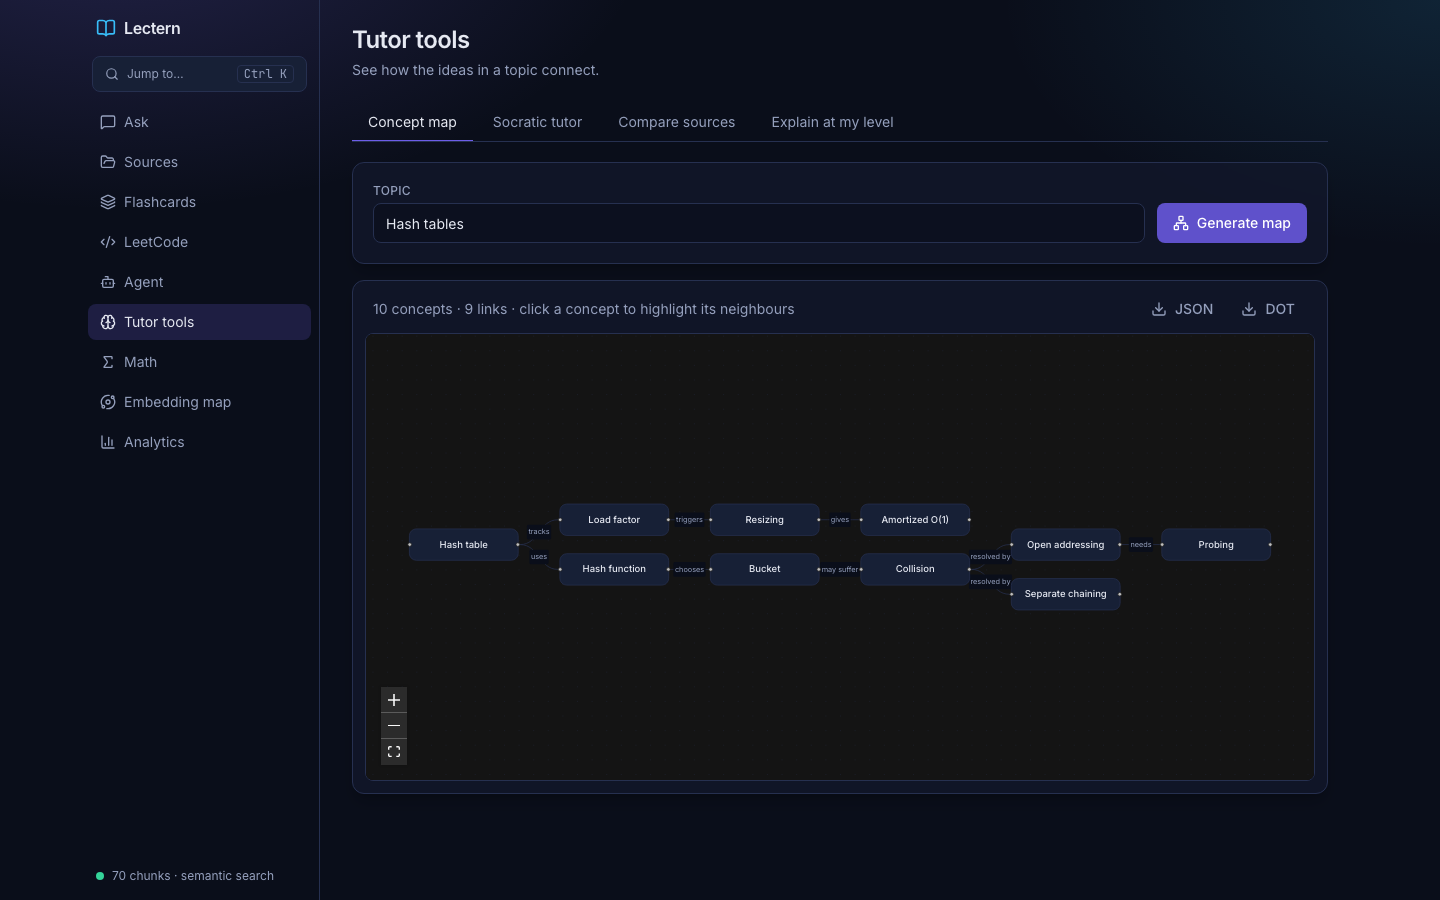
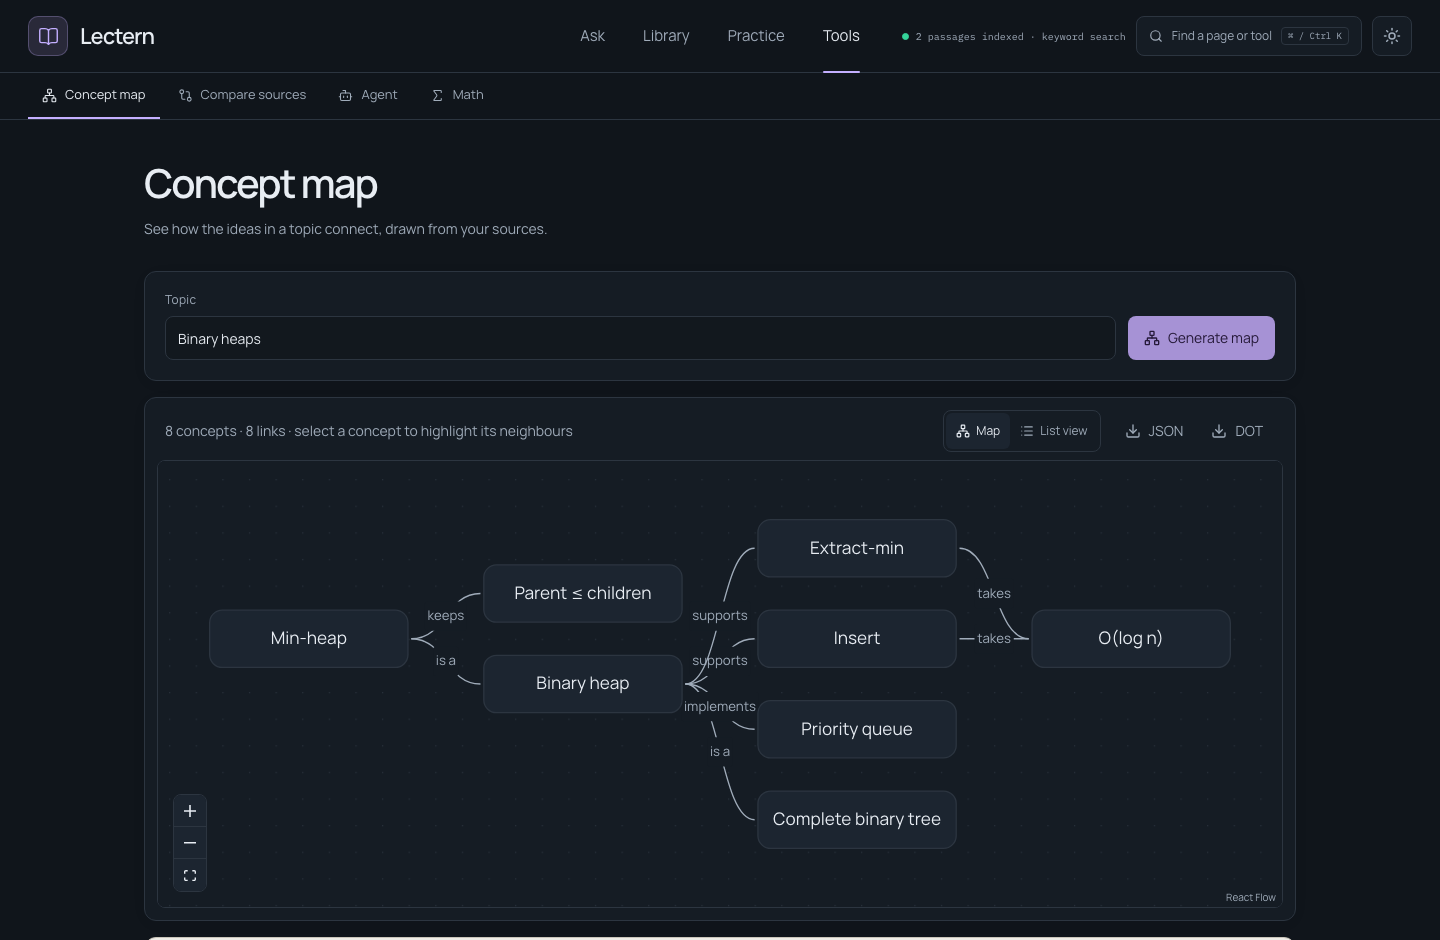
Docs: refresh screenshots and architecture diagram for the Evidence Desk UI
Recapture every README screenshot with scripted test data, update the
capture spec for the current routes, and name the new navigation in the
architecture diagram.

diff --git a/apps/web/screenshots/capture.spec.ts b/apps/web/screenshots/capture.spec.ts
@@ -1,22 +1,35 @@
-import { expect, test, type Page } from "@playwright/test";
+import { expect, test, type APIRequestContext, type Page } from "@playwright/test";
+import fs from "node:fs";
 import path from "node:path";
 
 const OUT = path.resolve(import.meta.dirname, "../../../docs/images");
-const API = "http://127.0.0.1:8200";
+const FIXTURES = path.resolve(import.meta.dirname, "../e2e/fixtures");
+const API = "http://127.0.0.1:8970";
 const shot = (page: Page, name: string, opts: { fullPage?: boolean } = {}) =>
   page.screenshot({ path: path.join(OUT, `${name}.png`), ...opts });
 
+async function indexFixture(request: APIRequestContext, name: string) {
+  const res = await request.post(`${API}/api/v1/sources/files`, {
+    multipart: { files: { name, mimeType: "application/pdf", buffer: fs.readFileSync(path.join(FIXTURES, name)) } },
+  });
+  const { job_id } = await res.json();
+  await expect
+    .poll(async () => (await (await request.get(`${API}/api/v1/jobs/${job_id}`)).json()).status, { timeout: 30_000 })
+    .toBe("done");
+}
+
 async function ask(page: Page, question: string) {
-  await page.getByLabel("Your question").fill(question);
+  await page.getByLabel("Your question", { exact: true }).fill(question);
   await page.getByRole("button", { name: "Ask", exact: true }).click();
   await expect(page.getByRole("button", { name: "Copy answer" }).first()).toBeVisible({ timeout: 30_000 });
   await expect(page.getByRole("button", { name: "Stop" })).toHaveCount(0, { timeout: 30_000 }); // the newest answer has finished
 }
 
-test("capture the app", async ({ page, request }) => {
-  test.setTimeout(240_000);
+const DEMO = process.env.SCREENSHOT_SERVER === "demo";
 
-  // seed the analytics page with a few real questions
+test("capture the pages that need a larger library", async ({ page, request }) => {
+  test.skip(!DEMO, "runs with SCREENSHOT_SERVER=demo");
+  test.setTimeout(240_000);
   for (const question of [
     "How does a hash table handle collisions?",
     "What is the difference between BFS and DFS?",
@@ -27,89 +40,117 @@ test("capture the app", async ({ page, request }) => {
     await request.post(`${API}/api/v1/ask`, { data: { question, k: 3 } });
   }
 
-  // 1. Ask: a streamed answer with checked citations and the passages behind it
+  // Embedding map of the indexed passages, projected to 3D
+  await page.setViewportSize({ width: 1440, height: 1100 });
+  await page.goto("/visualize");
+  const plot = page.getByTestId("scatter3d");
+  await expect(plot).toHaveClass(/js-plotly-plot/, { timeout: 30_000 });
+  await page.waitForTimeout(2500);
+  await shot(page, "embedding-map");
+
+  // Insights
+  await page.goto("/analytics");
+  await expect(page.getByText("Most used sources")).toBeVisible();
+  await page.waitForTimeout(500);
+  await shot(page, "analytics");
+});
+
+test("capture the app", async ({ page, request }) => {
+  test.skip(DEMO, "runs without SCREENSHOT_SERVER=demo");
+  test.setTimeout(240_000);
+  await indexFixture(request, "heaps.pdf");
+  await indexFixture(request, "graphs.pdf");
+
+  // 1. Ask: a finished answer with citation chips and the source margin open
   await page.setViewportSize({ width: 1440, height: 1240 });
   await page.goto("/ask");
-  await ask(page, "How do hash tables deal with collisions?"); // different wording from the seeded questions: a live answer, not a cached one
-  await page.getByText("Sources (").first().click();
+  await ask(page, "How does a binary heap implement a priority queue?");
+  await expect(
+    page.getByRole("complementary", { name: "Source margin" }).getByRole("region", { name: /Passage 1: heaps\.pdf/ }),
+  ).toBeVisible();
   await page.waitForTimeout(600);
   await shot(page, "ask");
-  await page.setViewportSize({ width: 1440, height: 900 });
 
   // 2. Sources: what is indexed
+  await page.setViewportSize({ width: 1440, height: 1180 });
   await page.goto("/sources");
-  await expect(page.getByText("hashing.md").first()).toBeVisible();
+  await expect(page.getByText("graphs.pdf").first()).toBeVisible();
   await page.waitForTimeout(500);
   await shot(page, "sources");
 
   // 3. Concept map
+  await page.setViewportSize({ width: 1440, height: 940 });
   await page.goto("/concept-map");
-  await page.getByLabel("Topic").fill("Hash tables");
+  await page.getByLabel("Topic").fill("Binary heaps");
   await page.getByRole("button", { name: "Generate map" }).click();
-  await expect(page.getByTestId("concept-graph").locator(".react-flow__node").first()).toBeVisible();
+  await expect(page.getByTestId("concept-graph").locator(".react-flow__node")).toHaveCount(8);
   await page.waitForTimeout(800);
   await shot(page, "concept-map");
 
-  // 4. Work it out (Socratic) with one hint revealed
+  // 4. Work it out with one hint revealed
+  await page.setViewportSize({ width: 1440, height: 900 });
   await page.goto("/work-it-out");
-  await page.getByLabel("What are you trying to work out?").fill("Why do hash tables need a collision strategy?");
+  await page.getByLabel("What are you trying to work out?").fill("Why does heap insert take O(log n) time?");
   await page.getByRole("button", { name: "Guide me" }).click();
-  await expect(page.getByText("What does a hash function turn a key into")).toBeVisible();
+  await expect(page.getByText("what must be true of every parent")).toBeVisible();
   await page.getByRole("button", { name: /Show hint 1/ }).click();
   await page.waitForTimeout(300);
   await shot(page, "socratic");
 
-  // 5. Embedding map: the real MiniLM embeddings of the indexed passages, projected to 3D
-  await page.goto("/visualize");
-  await expect(page.getByTestId("scatter3d")).toHaveClass(/js-plotly-plot/, { timeout: 30_000 });
-  await page.waitForTimeout(2500);
-  await shot(page, "embedding-map");
-
-  // 6. LeetCode: filter, open a problem, generate a study guide
+  // 5. LeetCode: filter, open a problem, generate a study guide
+  await page.setViewportSize({ width: 1440, height: 1180 });
   await page.goto("/leetcode?q=two+sum&d=Easy&p=1");
-  await page.getByLabel("Problem detail").getByRole("button", { name: "Study guide" }).click();
+  await page.locator("summary", { hasText: "Your study plan" }).click(); // collapsed, so the problem and its guide fit
+  const detail = page.getByLabel("Problem detail");
+  await detail.getByRole("button", { name: "Study guide" }).click();
   await expect(page.getByRole("heading", { name: "Key observation" })).toBeVisible();
+  await detail.evaluate((el) => window.scrollBy(0, el.getBoundingClientRect().top - 88));
   await page.waitForTimeout(500);
   await shot(page, "leetcode");
 
   // 7. Math
+  await page.setViewportSize({ width: 1440, height: 900 });
   await page.goto("/math");
-  await page.getByRole("button", { name: "solve x^2 - 5x + 6 = 0" }).click();
+  await page.getByRole("button", { name: "Use example: solve x^2 - 5x + 6 = 0" }).click(); // examples only fill the input
+  await page.getByRole("button", { name: "Compute" }).click();
   await expect(page.getByTestId("math-result")).toHaveCount(1, { timeout: 30_000 }); // the first call starts the math worker
-  await page.getByRole("button", { name: "integrate x^2 + 3x" }).click();
+  await page.getByRole("button", { name: "Use example: integrate x^2 + 3x" }).click();
+  await page.getByRole("button", { name: "Compute" }).click();
   await expect(page.getByTestId("math-result")).toHaveCount(2, { timeout: 30_000 });
   await expect(page.getByTestId("math-result").nth(1).locator(".katex")).toBeVisible();
   await page.waitForTimeout(400);
   await shot(page, "math");
 
-  // 7b. Flashcards: a due card with its answer shown
-  await page.setViewportSize({ width: 1440, height: 1000 });
+  // 8. Flashcards: a due card with its answer shown
+  await page.setViewportSize({ width: 1440, height: 1120 });
   await page.goto("/study");
-  await page.getByLabel("Front (question)").fill("What does a hash table trade for O(1) average lookup?");
-  await page.getByLabel("Back (answer)").fill("Extra memory and unordered keys; worst case is O(n) when many keys collide.");
+  await page.getByLabel("Front (question)").fill("What does a min-heap guarantee about each parent?");
+  await page.getByLabel("Back (answer)").fill("Every parent is smaller than or equal to its children.");
   await page.getByRole("button", { name: "Add card" }).click();
   await page.getByRole("button", { name: "Show answer" }).click();
   await expect(page.getByTestId("card-back")).toBeVisible();
   await page.waitForTimeout(400);
   await shot(page, "flashcards");
 
-  // 8. Analytics
-  await page.goto("/analytics");
-  await expect(page.getByText("Most used sources")).toBeVisible();
-  await page.waitForTimeout(500);
-  await shot(page, "analytics");
-
-  // 9. Command palette
+  // 10. Command palette
+  await page.setViewportSize({ width: 1440, height: 1000 });
   await page.goto("/ask");
   await page.keyboard.press("Control+K");
-  await page.getByPlaceholder(/Go to a page/).fill("t");
+  await page.getByPlaceholder(/Go to a page/).fill("practice");
+  await expect(page.getByRole("dialog").getByRole("option", { name: "Flashcards" })).toBeVisible();
   await page.waitForTimeout(400);
   await shot(page, "command-palette");
+  await page.keyboard.press("Escape");
 
-  // 10. Phone layout
+  // 11. Phone layout
   await page.setViewportSize({ width: 390, height: 844 });
   await page.goto("/ask");
   await ask(page, "What is the heap property?");
+  // A viewport as tall as the page keeps the sticky bars at its edges; a full-page capture strands them mid-image.
+  await page.evaluate(() => (document.activeElement as HTMLElement | null)?.blur());
+  const height = await page.evaluate(() => document.documentElement.scrollHeight);
+  await page.setViewportSize({ width: 390, height });
+  await page.evaluate(() => window.scrollTo(0, 0));
   await page.waitForTimeout(500);
-  await shot(page, "mobile", { fullPage: true });
+  await shot(page, "mobile");
 });

diff --git a/apps/web/playwright.screenshots.config.ts b/apps/web/playwright.screenshots.config.ts
@@ -3,13 +3,16 @@ import { defineConfig, devices } from "@playwright/test";
 /**
  * Captures the screenshots used in the README (docs/images). Not part of the test suite.
  *
- *   cd apps/web && E2E_PYTHON=$(which python) npx playwright test -c playwright.screenshots.config.ts
+ *   cd apps/web && E2E_PYTHON=$(which python) npx playwright test -c playwright.screenshots.config.ts capture
  *
- * Boots scripts/demo_server.py (real retrieval, scripted model) and a production build of the web app.
+ * Boots tests/screenshot_server.py (the real API with a scripted model, no key or network) and a production build of the web app.
+ * Run it a second time with SCREENSHOT_SERVER=demo for the two pages that need a larger library (embedding map, Insights):
+ * that run boots scripts/demo_server.py, which indexes the committed sample corpus and also uses a scripted model.
  */
-const API_PORT = 8200;
-const WEB_PORT = 3200;
+const API_PORT = 8970;
+const WEB_PORT = 3970;
 const python = process.env.E2E_PYTHON ?? "python";
+const apiScript = process.env.SCREENSHOT_SERVER === "demo" ? "scripts/demo_server.py" : "tests/screenshot_server.py";
 
 export default defineConfig({
   testDir: "./screenshots",
@@ -19,11 +22,11 @@ export default defineConfig({
   projects: [{ name: "chromium", use: { ...devices["Desktop Chrome"], viewport: { width: 1440, height: 900 } } }],
   webServer: [
     {
-      command: `${python} ../../scripts/demo_server.py ${API_PORT}`,
+      command: `${python} ../../${apiScript} ${API_PORT}`,
       url: `http://127.0.0.1:${API_PORT}/health`,
       timeout: 180_000,
       reuseExistingServer: false,
-      env: { DEMO_WEB_ORIGIN: `http://localhost:${WEB_PORT}` },
+      env: { E2E_WEB_ORIGIN: `http://localhost:${WEB_PORT}`, DEMO_WEB_ORIGIN: `http://localhost:${WEB_PORT}` },
     },
     {
       command: `npm run build && npm run start -- --port ${WEB_PORT}`,

diff --git a/tests/screenshot_server.py b/tests/screenshot_server.py
@@ -1,0 +1,110 @@
+"""The browser-test API server with fuller scripted replies, for the README screenshots.
+
+    python tests/screenshot_server.py [port]
+
+Everything except the language model is real (see tests/e2e_server.py). The replies below are written by hand
+from the two fixture PDFs in apps/web/e2e/fixtures, so no API key or network is needed. They are not model output.
+"""
+
+import json
+import re
+import sys
+from pathlib import Path
+
+sys.path.insert(0, str(Path(__file__).resolve().parents[1]))
+
+from tests.e2e_server import FakeGemini, app, port  # noqa: E402
+
+HEAP = "heaps.pdf (page 1)"
+GRAPH = "graphs.pdf (page 1)"
+
+CONCEPT_MAP = {
+    "nodes": [
+        {"id": "heap", "label": "Binary heap"},
+        {"id": "tree", "label": "Complete binary tree"},
+        {"id": "pq", "label": "Priority queue"},
+        {"id": "min-heap", "label": "Min-heap"},
+        {"id": "order", "label": "Parent ≤ children"},
+        {"id": "insert", "label": "Insert"},
+        {"id": "extract", "label": "Extract-min"},
+        {"id": "log", "label": "O(log n)"},
+    ],
+    "edges": [
+        {"from": "heap", "to": "tree", "label": "is a"},
+        {"from": "heap", "to": "pq", "label": "implements"},
+        {"from": "min-heap", "to": "heap", "label": "is a"},
+        {"from": "min-heap", "to": "order", "label": "keeps"},
+        {"from": "heap", "to": "insert", "label": "supports"},
+        {"from": "heap", "to": "extract", "label": "supports"},
+        {"from": "insert", "to": "log", "label": "takes"},
+        {"from": "extract", "to": "log", "label": "takes"},
+    ],
+}
+
+SOCRATIC = {
+    "questions": [
+        "In a min-heap, what must be true of every parent and its children?",
+        "Given that rule, where in the tree must the smallest value be?",
+        "How tall is a complete binary tree holding n values?",
+        "How many levels can a new value move through after an insert?",
+    ],
+    "hints": [
+        "Start from the ordering rule and follow it up the tree to the root.",
+        "A complete tree fills each level before starting the next, so its height grows with log n.",
+        "Each swap moves a value one level, so count the levels rather than the values.",
+    ],
+}
+
+STUDY_GUIDE = """## Key observation
+
+For each number `x`, the value you need is `target - x`. Remembering the numbers already seen makes that check O(1).
+
+## Approach
+
+1. Keep a hash map from value to index.
+2. For each `x`, look up `target - x`.
+3. If it is there, return both indices. Otherwise store `x`.
+
+```python
+def two_sum(nums, target):
+    seen = {}
+    for i, x in enumerate(nums):
+        if target - x in seen:
+            return [seen[target - x], i]
+        seen[x] = i
+```
+
+## Complexity
+
+O(n) time and O(n) space.
+"""
+
+
+def reply(prompt: str, json_mode: bool) -> str:
+    if "study map" in prompt.lower():
+        return json.dumps(CONCEPT_MAP)
+    if "Socratic tutor" in prompt:
+        return json.dumps(SOCRATIC)
+    if "algorithms mentor" in prompt:
+        return STUDY_GUIDE
+    if "TASK:" not in prompt and "flashcard author" not in prompt and "study corpus" not in prompt:
+        labels = re.findall(r"^- \[(.+?)\] ", prompt, re.MULTILINE)
+        if HEAP in labels:
+            return (
+                f"A **binary heap** is a complete binary tree used to implement a priority queue. [{HEAP}]\n\n"
+                f"- **Ordering:** in a min-heap, every parent is smaller than or equal to its children. [{HEAP}]\n"
+                f"- **Cost:** insert and extract-min both take O(log n) time. [{HEAP}]"
+            )
+        if GRAPH in labels:
+            return (
+                f"**Breadth-first search** explores a graph level by level using a queue. [{GRAPH}]\n\n"
+                f"**Depth-first search** follows a path as deep as possible using a stack or recursion. [{GRAPH}]"
+            )
+    return FakeGemini.default_reply(prompt, json_mode)
+
+
+if __name__ == "__main__":
+    import uvicorn
+
+    FakeGemini.handler = staticmethod(reply)
+    uvicorn.run(app, host="127.0.0.1", port=port, log_level="warning")

diff --git a/README.md b/README.md
@@ -14,7 +14,7 @@ Full stack: Python/FastAPI backend with a hand-built vector store and hybrid sea
 
 **Demo video (51 s):** [docs/demo/lectern-demo.mp4](docs/demo/lectern-demo.mp4). Recorded with Playwright against the local demo server (scripted model, as below); regenerate with `cd apps/web && npx playwright test -c playwright.video.config.ts`.
 
-> **About the screenshots.** They are captured from `scripts/demo_server.py`, which runs the real API, real chunking, real MiniLM embeddings and real hybrid retrieval over a small committed corpus, but uses a **scripted stand-in for the language model** (no API key). Answer text in the screenshots is therefore not model output. Run the app with a `GEMINI_API_KEY` for real answers.
+> **About the screenshots.** They use **scripted test data**: the real API, chunking and retrieval over small committed fixtures (`tests/screenshot_server.py`; the embedding map and Insights use the sample corpus in `scripts/demo_server.py`), with the simple hashing embedder and a **scripted stand-in for the language model** (no API key). Answer text in the screenshots is therefore not model output. Run the app with a `GEMINI_API_KEY` for real answers.
 
 ---
 
